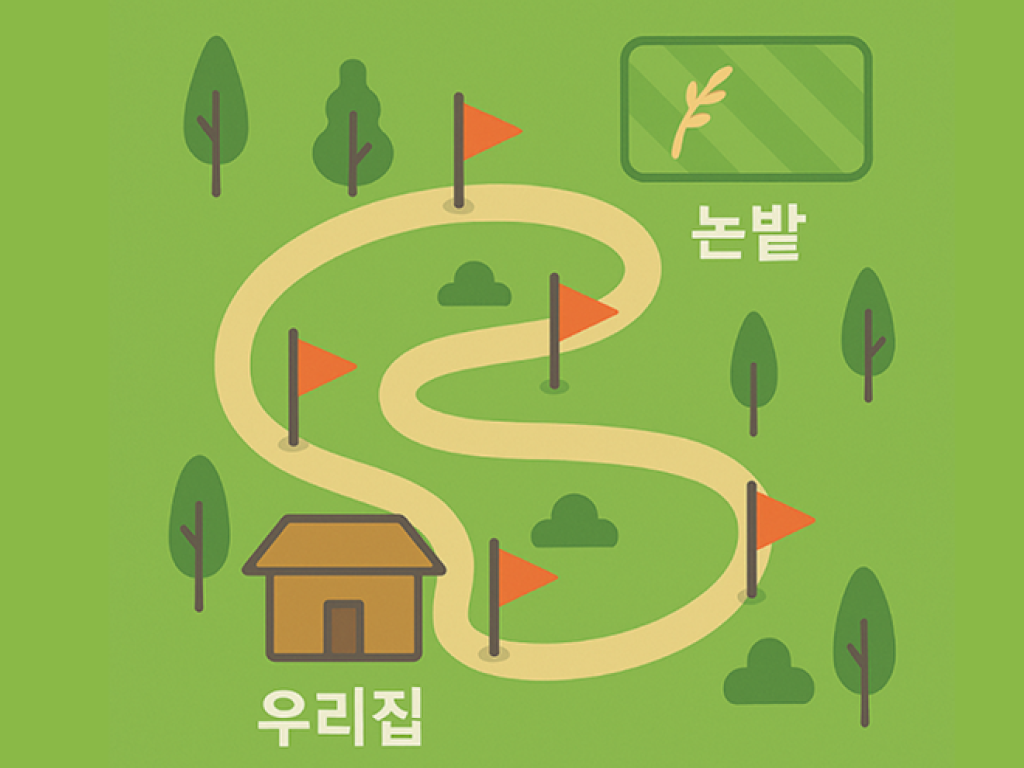
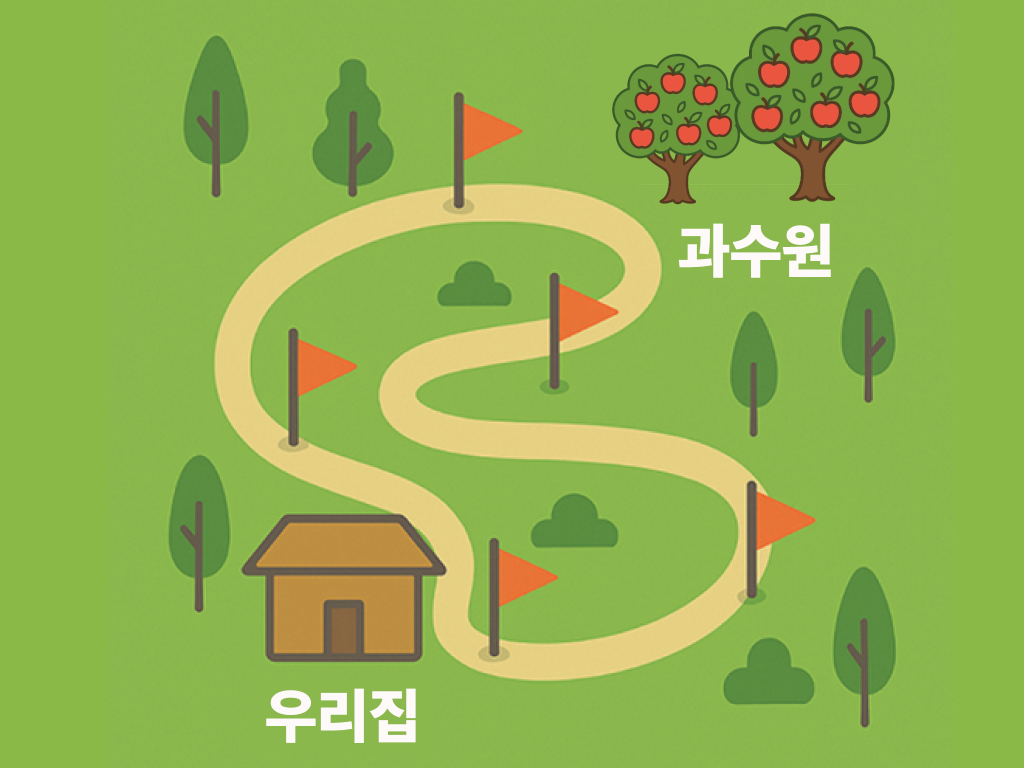
변경된 시나리오 사항 수정

Changed region(s): [[0.5938, 0.0, 0.875, 0.375], [0.25, 0.875, 0.4375, 0.9688]]

diff --git a/dist/index.html b/dist/index.html
@@ -7,10 +7,10 @@
     <link rel="icon" type="image/svg+xml" href="/starstar_favicon.svg" />
     <meta name="viewport" content="width=device-width, initial-scale=1.0" />    
     <title>별 따라 안전운전!</title>
-    <script type="module" crossorigin src="/assets/index-DmW5EQtk.js"></script>
-    <link rel="stylesheet" crossorigin href="/assets/index-Cz7F9ClT.css">
+    <script type="module" crossorigin src="/assets/index-CYyDy8fe.js"></script>
+    <link rel="stylesheet" crossorigin href="/assets/index-CSlx9iKW.css">
   </head>
   <body>
-    <div id="root"></div>
+    <div id="root"></div>
   </body>
 </html>

diff --git a/src/pages/scenarioSelect/ScenarioList.tsx b/src/pages/scenarioSelect/ScenarioList.tsx
@@ -18,8 +18,8 @@ const allScenarios = [
     },
     { 
         id: 2, 
-        title: '논밭 작업가는 날', 
-        subtitle: '논밭 작업가는 날',
+        title: '과수원 작업가는 날', 
+        subtitle: '과수원 작업가는 날',
         image: '/assets/images/scenario1.png',
         locked: false
     },
